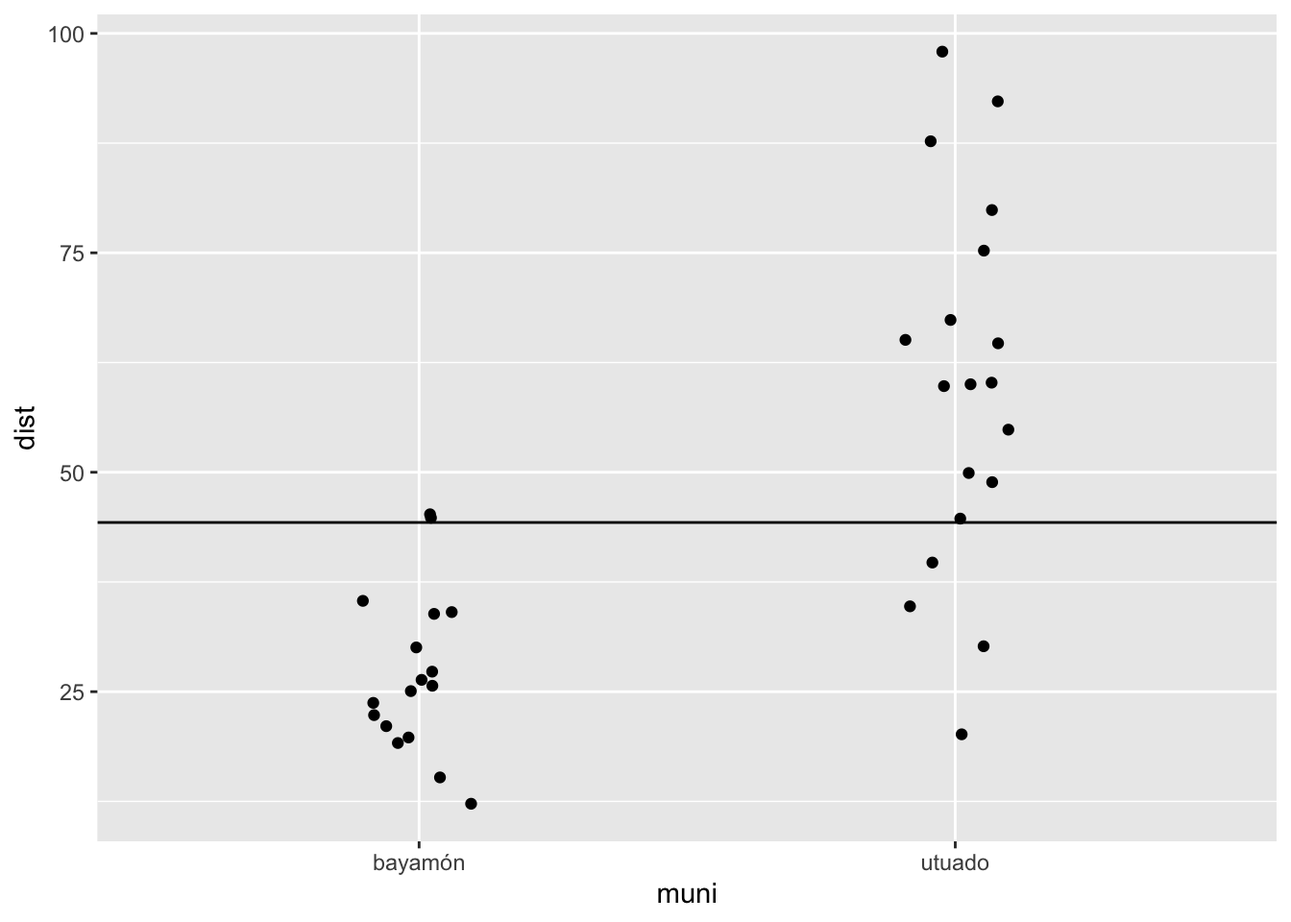
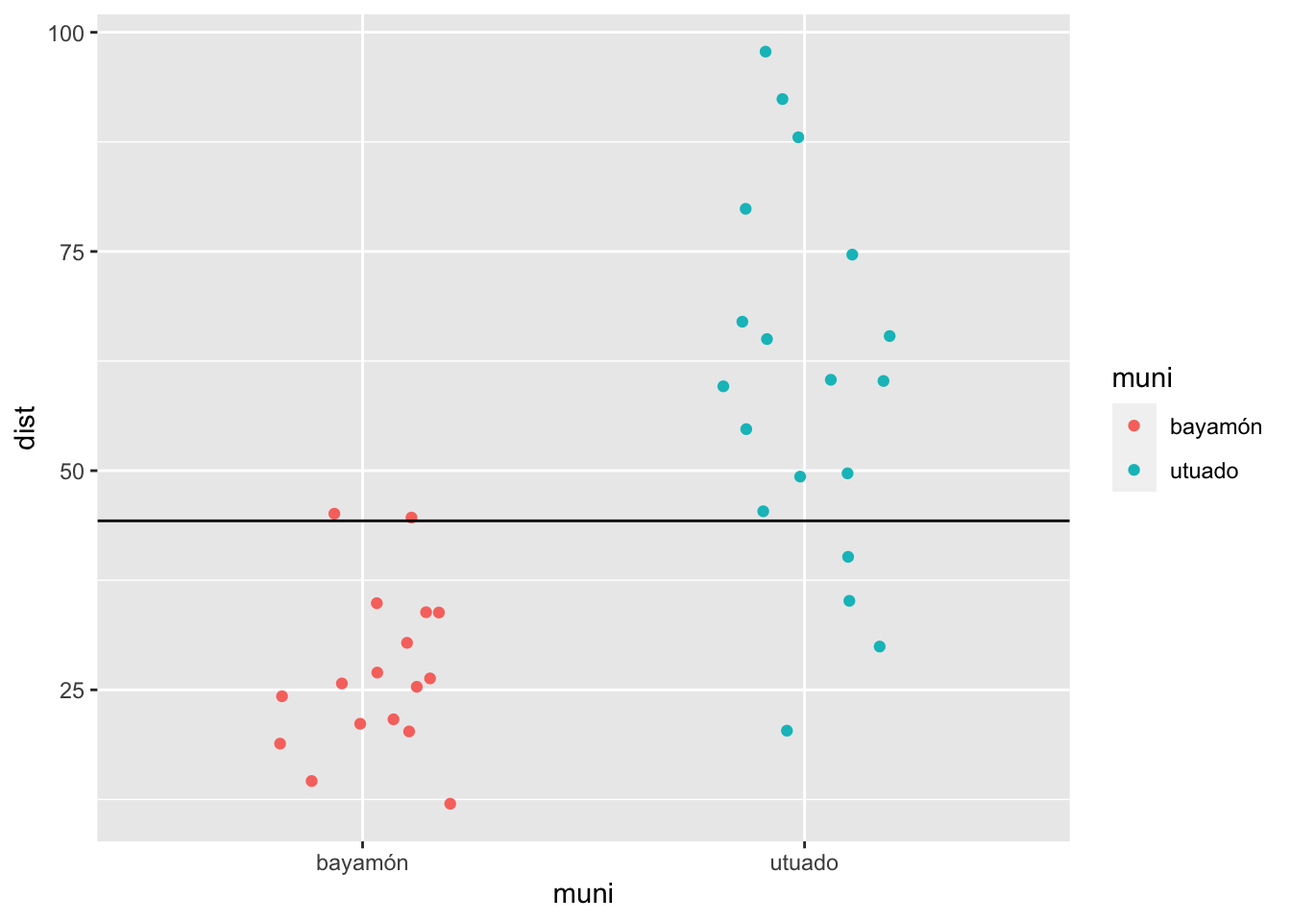
T11

diff --git a/T10_Pruebas_t_Independiente.html b/T10_Pruebas_t_Independiente.html
@@ -658,7 +658,7 @@ div.tocify {
 
 
 <p>Fecha de la ultima revisión</p>
-<pre><code>## [1] &quot;2020-10-13&quot;</code></pre>
+<pre><code>## [1] &quot;2020-10-22&quot;</code></pre>
 <div class="sourceCode" id="cb2"><pre class="sourceCode r"><code class="sourceCode r"><span id="cb2-1"><a href="#cb2-1"></a><span class="kw">library</span>(car)  <span class="co"># para la prueba de leveneTest</span></span>
 <span id="cb2-2"><a href="#cb2-2"></a></span>
 <span id="cb2-3"><a href="#cb2-3"></a><span class="kw">library</span>(RVAideMemoire) <span class="co"># para la prueba de byf.shapiro</span></span></code></pre></div>
@@ -714,8 +714,8 @@ div.tocify {
 <p>Hacer un gráfico de los datos. Si calculamos el promedio de todos los valores de “Y” y lo visualizamos, vemos que muchos de los valores del municipio “bayamón” son muy por debajo los valores de la linea y muchos de los valores del municipio “utuado” son muy por encima.</p>
 <div class="sourceCode" id="cb8"><pre class="sourceCode r"><code class="sourceCode r"><span id="cb8-1"><a href="#cb8-1"></a>mean_dist=<span class="kw">mean</span>(viajes<span class="op">$</span>dist)</span>
 <span id="cb8-2"><a href="#cb8-2"></a></span>
-<span id="cb8-3"><a href="#cb8-3"></a><span class="kw">ggplot</span>(viajes, <span class="kw">aes</span>(muni, dist))<span class="op">+</span></span>
-<span id="cb8-4"><a href="#cb8-4"></a><span class="st">  </span><span class="kw">geom_jitter</span>(<span class="dt">width =</span> <span class="fl">0.11</span>)<span class="op">+</span></span>
+<span id="cb8-3"><a href="#cb8-3"></a><span class="kw">ggplot</span>(viajes, <span class="kw">aes</span>(muni, dist, <span class="dt">colour=</span>muni))<span class="op">+</span></span>
+<span id="cb8-4"><a href="#cb8-4"></a><span class="st">  </span><span class="kw">geom_jitter</span>(<span class="dt">width =</span> <span class="fl">.2</span>)<span class="op">+</span></span>
 <span id="cb8-5"><a href="#cb8-5"></a><span class="st">  </span><span class="kw">geom_hline</span>(<span class="dt">yintercept =</span> mean_dist)</span></code></pre></div>
 <p><img src="T10_Pruebas_t_Independiente_files/figure-html/plot-1.png" width="672" /></p>
 <hr />
@@ -785,13 +785,50 @@ div.tocify {
 ## sample estimates:
 ## mean in group bayamón  mean in group utuado 
 ##              27.05882              59.68421</code></pre>
+<div class="sourceCode" id="cb13"><pre class="sourceCode r"><code class="sourceCode r"><span id="cb13-1"><a href="#cb13-1"></a>gender=<span class="kw">c</span>(<span class="st">&quot;m&quot;</span>, <span class="st">&quot;m&quot;</span>, <span class="st">&quot;f&quot;</span>, <span class="st">&quot;f&quot;</span>, <span class="st">&quot;m&quot;</span>, </span>
+<span id="cb13-2"><a href="#cb13-2"></a>         <span class="st">&quot;f&quot;</span>,<span class="st">&quot;f&quot;</span>,<span class="st">&quot;m&quot;</span>, <span class="st">&quot;f&quot;</span>, <span class="st">&quot;f&quot;</span>, <span class="st">&quot;f&quot;</span>)</span>
+<span id="cb13-3"><a href="#cb13-3"></a></span>
+<span id="cb13-4"><a href="#cb13-4"></a>dist=<span class="kw">c</span>(<span class="dv">10</span>,<span class="dv">20</span>, <span class="dv">11</span>, <span class="dv">40</span>, <span class="dv">19</span>, </span>
+<span id="cb13-5"><a href="#cb13-5"></a>       <span class="fl">8.1</span>, <span class="dv">203</span>, <span class="fl">4.4</span>, <span class="dv">16</span>, <span class="dv">29</span>, <span class="dv">19</span>)</span>
+<span id="cb13-6"><a href="#cb13-6"></a></span>
+<span id="cb13-7"><a href="#cb13-7"></a>df=<span class="kw">data.frame</span>(gender, dist)</span>
+<span id="cb13-8"><a href="#cb13-8"></a><span class="kw">head</span>(df)</span></code></pre></div>
+<pre><code>##   gender dist
+## 1      m 10.0
+## 2      m 20.0
+## 3      f 11.0
+## 4      f 40.0
+## 5      m 19.0
+## 6      f  8.1</code></pre>
+<div class="sourceCode" id="cb15"><pre class="sourceCode r"><code class="sourceCode r"><span id="cb15-1"><a href="#cb15-1"></a>model2=<span class="kw">t.test</span>(dist<span class="op">~</span>gender, <span class="dt">data=</span>df, <span class="dt">paired=</span><span class="ot">FALSE</span>)</span>
+<span id="cb15-2"><a href="#cb15-2"></a>model2</span></code></pre></div>
+<pre><code>## 
+##  Welch Two Sample t-test
+## 
+## data:  dist by gender
+## t = 1.2467, df = 6.2378, p-value = 0.2573
+## alternative hypothesis: true difference in means is not equal to 0
+## 95 percent confidence interval:
+##  -31.39703  97.86846
+## sample estimates:
+## mean in group f mean in group m 
+##        46.58571        13.35000</code></pre>
+<div class="sourceCode" id="cb17"><pre class="sourceCode r"><code class="sourceCode r"><span id="cb17-1"><a href="#cb17-1"></a>padres=<span class="kw">c</span>(<span class="st">&quot;p&quot;</span>, <span class="st">&quot;m&quot;</span> , <span class="st">&quot;p&quot;</span>, <span class="st">&quot;m&quot;</span>, <span class="st">&quot;p&quot;</span>,<span class="st">&quot;m&quot;</span>,</span>
+<span id="cb17-2"><a href="#cb17-2"></a>         <span class="st">&quot;p&quot;</span>,<span class="st">&quot;m&quot;</span>, <span class="st">&quot;p&quot;</span>,<span class="st">&quot;m&quot;</span>, <span class="st">&quot;p&quot;</span>,<span class="st">&quot;m&quot;</span>,</span>
+<span id="cb17-3"><a href="#cb17-3"></a>         <span class="st">&quot;p&quot;</span>,<span class="st">&quot;m&quot;</span>, <span class="st">&quot;p&quot;</span>,<span class="st">&quot;m&quot;</span>, <span class="st">&quot;p&quot;</span>,<span class="st">&quot;m&quot;</span>, </span>
+<span id="cb17-4"><a href="#cb17-4"></a>         <span class="st">&quot;p&quot;</span>, <span class="st">&quot;m&quot;</span>)</span>
+<span id="cb17-5"><a href="#cb17-5"></a></span>
+<span id="cb17-6"><a href="#cb17-6"></a>Hermanos=<span class="st"> </span><span class="kw">c</span>(<span class="dv">2</span>, <span class="dv">1</span>,<span class="dv">2</span>,<span class="dv">2</span>,<span class="dv">2</span>,<span class="dv">3</span>,</span>
+<span id="cb17-7"><a href="#cb17-7"></a>            <span class="dv">3</span>,<span class="dv">2</span>,<span class="dv">4</span>,<span class="dv">1</span>,<span class="dv">2</span>,<span class="dv">1</span>,</span>
+<span id="cb17-8"><a href="#cb17-8"></a>            <span class="dv">2</span>,<span class="dv">1</span>,<span class="dv">5</span>,<span class="dv">2</span>,<span class="dv">5</span>,<span class="dv">3</span>, </span>
+<span id="cb17-9"><a href="#cb17-9"></a>            <span class="dv">12</span>, <span class="dv">2</span>)</span></code></pre></div>
 <hr />
 </div>
 <div id="gráficar-el-promedio-y-el-intervalo-de-confianza" class="section level2">
 <h2>Gráficar el promedio y el intervalo de confianza</h2>
 <p>Graficar los datos con el promedio y el intervalo de confianza da un resumen de la estadística de forma visual, lo que se visualiza es el promedio y el intervalo de 95%. Nota que se usa la función en ggplot2 de <strong>stat_summary(fun.data = mean_cl_normal)</strong>, esto quiere decir que se esta calculando los valores ASUMIENDO una distribución normal de los datos.</p>
-<div class="sourceCode" id="cb13"><pre class="sourceCode r"><code class="sourceCode r"><span id="cb13-1"><a href="#cb13-1"></a><span class="kw">ggplot</span>(viajes, <span class="kw">aes</span>(muni, dist))<span class="op">+</span></span>
-<span id="cb13-2"><a href="#cb13-2"></a><span class="st"> </span><span class="kw">stat_summary</span>(<span class="dt">fun.data =</span> mean_cl_normal, <span class="dt">geom =</span> <span class="st">&quot;pointrange&quot;</span>)</span></code></pre></div>
+<div class="sourceCode" id="cb18"><pre class="sourceCode r"><code class="sourceCode r"><span id="cb18-1"><a href="#cb18-1"></a><span class="kw">ggplot</span>(df, <span class="kw">aes</span>(gender, dist))<span class="op">+</span></span>
+<span id="cb18-2"><a href="#cb18-2"></a><span class="st"> </span><span class="kw">stat_summary</span>(<span class="dt">fun.data =</span> mean_cl_normal, <span class="dt">geom =</span> <span class="st">&quot;pointrange&quot;</span>)</span></code></pre></div>
 <p><img src="T10_Pruebas_t_Independiente_files/figure-html/graph%20summary%20stats-1.png" width="672" /></p>
 <hr />
 </div>
@@ -801,10 +838,10 @@ div.tocify {
 <div id="visualización-de-los-datos" class="section level2">
 <h2>Visualización de los datos</h2>
 <p>Siempre se debería producir un gráfico de los datos para tener una idea de si los datos cumple con los supuestos de las pruebas. Ahora ver las distribución de frecuencia por municipio. Si los datos tuviese una distribución <strong>perfecta</strong> normal, se obtendría una distribición en forma de campana. Primero NO se debería esperar este tipo de distribución cuando tenemos pocos datos.</p>
-<div class="sourceCode" id="cb14"><pre class="sourceCode r"><code class="sourceCode r"><span id="cb14-1"><a href="#cb14-1"></a><span class="kw">ggplot</span>(viajes, <span class="kw">aes</span>(dist, <span class="dt">fill=</span>muni))<span class="op">+</span></span>
-<span id="cb14-2"><a href="#cb14-2"></a><span class="st">  </span><span class="kw">geom_histogram</span>(<span class="dt">colour=</span><span class="st">&quot;white&quot;</span>)<span class="op">+</span></span>
-<span id="cb14-3"><a href="#cb14-3"></a><span class="st">  </span><span class="kw">facet_grid</span>(<span class="op">~</span>muni)</span></code></pre></div>
-<p><img src="T10_Pruebas_t_Independiente_files/figure-html/unnamed-chunk-8-1.png" width="672" /></p>
+<div class="sourceCode" id="cb19"><pre class="sourceCode r"><code class="sourceCode r"><span id="cb19-1"><a href="#cb19-1"></a><span class="kw">ggplot</span>(viajes, <span class="kw">aes</span>(dist, <span class="dt">fill=</span>muni))<span class="op">+</span></span>
+<span id="cb19-2"><a href="#cb19-2"></a><span class="st">  </span><span class="kw">geom_histogram</span>(<span class="dt">colour=</span><span class="st">&quot;white&quot;</span>)<span class="op">+</span></span>
+<span id="cb19-3"><a href="#cb19-3"></a><span class="st">  </span><span class="kw">facet_grid</span>(<span class="op">~</span>muni)</span></code></pre></div>
+<p><img src="T10_Pruebas_t_Independiente_files/figure-html/unnamed-chunk-10-1.png" width="672" /></p>
 <hr />
 </div>
 <div id="shapiro-wilks-prueba-de-normalidad" class="section level2">
@@ -814,7 +851,7 @@ div.tocify {
 <p>Es típico que cuando uno tiene muchos muchos datos uno puede encontrar diferencias significativas entres los grupos, en este caso cuando hay muchos datos la prueba pudiese sugerir que los datos no tienen distribución normal cuando en realidad se esta detectando diferenciales triviales. En la prueba abajo se sugiere de NO utilizarla si tiene mayor de 2000 datos. Al contrario cuando tenga muy pocos datos (n&lt;50) no se debería usar la prueba de Shapiro-Wilks.</p>
 <div id="evaluar-la" class="section level3">
 <h3>Evaluar la</h3>
-<div class="sourceCode" id="cb15"><pre class="sourceCode r"><code class="sourceCode r"><span id="cb15-1"><a href="#cb15-1"></a><span class="kw">shapiro.test</span>(viajes<span class="op">$</span>dist)</span></code></pre></div>
+<div class="sourceCode" id="cb20"><pre class="sourceCode r"><code class="sourceCode r"><span id="cb20-1"><a href="#cb20-1"></a><span class="kw">shapiro.test</span>(viajes<span class="op">$</span>dist)</span></code></pre></div>
 <pre><code>## 
 ##  Shapiro-Wilk normality test
 ## 
@@ -823,21 +860,21 @@ div.tocify {
 </div>
 <div id="metodo-1-shapiro.test" class="section level3">
 <h3>Metodo #1: shapiro.test()</h3>
-<div class="sourceCode" id="cb17"><pre class="sourceCode r"><code class="sourceCode r"><span id="cb17-1"><a href="#cb17-1"></a><span class="co"># Normality test by group</span></span>
-<span id="cb17-2"><a href="#cb17-2"></a><span class="co"># Method 1 </span></span>
-<span id="cb17-3"><a href="#cb17-3"></a><span class="kw">shapiro.test</span>(viajes<span class="op">$</span>dist)</span></code></pre></div>
+<div class="sourceCode" id="cb22"><pre class="sourceCode r"><code class="sourceCode r"><span id="cb22-1"><a href="#cb22-1"></a><span class="co"># Normality test by group</span></span>
+<span id="cb22-2"><a href="#cb22-2"></a><span class="co"># Method 1 </span></span>
+<span id="cb22-3"><a href="#cb22-3"></a><span class="kw">shapiro.test</span>(viajes<span class="op">$</span>dist)</span></code></pre></div>
 <pre><code>## 
 ##  Shapiro-Wilk normality test
 ## 
 ## data:  viajes$dist
 ## W = 0.92929, p-value = 0.02381</code></pre>
-<div class="sourceCode" id="cb19"><pre class="sourceCode r"><code class="sourceCode r"><span id="cb19-1"><a href="#cb19-1"></a><span class="kw">shapiro.test</span>(viajes<span class="op">$</span>dist[viajes<span class="op">$</span>muni<span class="op">==</span><span class="st">&quot;utuado&quot;</span>])</span></code></pre></div>
+<div class="sourceCode" id="cb24"><pre class="sourceCode r"><code class="sourceCode r"><span id="cb24-1"><a href="#cb24-1"></a><span class="kw">shapiro.test</span>(viajes<span class="op">$</span>dist[viajes<span class="op">$</span>muni<span class="op">==</span><span class="st">&quot;utuado&quot;</span>])</span></code></pre></div>
 <pre><code>## 
 ##  Shapiro-Wilk normality test
 ## 
 ## data:  viajes$dist[viajes$muni == &quot;utuado&quot;]
 ## W = 0.98408, p-value = 0.979</code></pre>
-<div class="sourceCode" id="cb21"><pre class="sourceCode r"><code class="sourceCode r"><span id="cb21-1"><a href="#cb21-1"></a><span class="kw">shapiro.test</span>(viajes<span class="op">$</span>dist[viajes<span class="op">$</span>muni<span class="op">==</span><span class="st">&quot;bayamón&quot;</span>])</span></code></pre></div>
+<div class="sourceCode" id="cb26"><pre class="sourceCode r"><code class="sourceCode r"><span id="cb26-1"><a href="#cb26-1"></a><span class="kw">shapiro.test</span>(viajes<span class="op">$</span>dist[viajes<span class="op">$</span>muni<span class="op">==</span><span class="st">&quot;bayamón&quot;</span>])</span></code></pre></div>
 <pre><code>## 
 ##  Shapiro-Wilk normality test
 ## 
@@ -850,9 +887,9 @@ div.tocify {
 <p>Recuerda, que si el valor de p es mayor de 0.05, se asume que los datos tienen una distribución normal, si es menor de 0.05 se asume que no es normal.</p>
 <p>Nota la oragnización de la prueba, es como la de la t.test( )</p>
 <p>byf.shapiro(variable_de_respuesta ~ variable_de_grupo, dataframe)</p>
-<div class="sourceCode" id="cb23"><pre class="sourceCode r"><code class="sourceCode r"><span id="cb23-1"><a href="#cb23-1"></a><span class="co"># de la libreria de (RVAideMemoire)</span></span>
-<span id="cb23-2"><a href="#cb23-2"></a></span>
-<span id="cb23-3"><a href="#cb23-3"></a><span class="kw">byf.shapiro</span>(dist<span class="op">~</span>muni, viajes)</span></code></pre></div>
+<div class="sourceCode" id="cb28"><pre class="sourceCode r"><code class="sourceCode r"><span id="cb28-1"><a href="#cb28-1"></a><span class="co"># de la libreria de (RVAideMemoire)</span></span>
+<span id="cb28-2"><a href="#cb28-2"></a></span>
+<span id="cb28-3"><a href="#cb28-3"></a><span class="kw">byf.shapiro</span>(dist<span class="op">~</span>muni, viajes)</span></code></pre></div>
 <pre><code>## 
 ##  Shapiro-Wilk normality tests
 ## 
@@ -881,7 +918,7 @@ div.tocify {
 </ol>
 <div id="la-prueba-de-bartlett" class="section level2">
 <h2>La prueba de Bartlett</h2>
-<div class="sourceCode" id="cb25"><pre class="sourceCode r"><code class="sourceCode r"><span id="cb25-1"><a href="#cb25-1"></a><span class="kw">bartlett.test</span>(dist<span class="op">~</span>muni, <span class="dt">data=</span>viajes)</span></code></pre></div>
+<div class="sourceCode" id="cb30"><pre class="sourceCode r"><code class="sourceCode r"><span id="cb30-1"><a href="#cb30-1"></a><span class="kw">bartlett.test</span>(dist<span class="op">~</span>muni, <span class="dt">data=</span>viajes)</span></code></pre></div>
 <pre><code>## 
 ##  Bartlett test of homogeneity of variances
 ## 
@@ -893,7 +930,7 @@ div.tocify {
 <ul>
 <li>similar to Bartlett’s test</li>
 </ul>
-<div class="sourceCode" id="cb27"><pre class="sourceCode r"><code class="sourceCode r"><span id="cb27-1"><a href="#cb27-1"></a><span class="kw">leveneTest</span>(dist<span class="op">~</span>muni, <span class="dt">data=</span>viajes)</span></code></pre></div>
+<div class="sourceCode" id="cb32"><pre class="sourceCode r"><code class="sourceCode r"><span id="cb32-1"><a href="#cb32-1"></a><span class="kw">leveneTest</span>(dist<span class="op">~</span>muni, <span class="dt">data=</span>viajes)</span></code></pre></div>
 <pre><code>## Levene&#39;s Test for Homogeneity of Variance (center = median)
 ##       Df F value  Pr(&gt;F)  
 ## group  1  7.0756 0.01183 *
@@ -906,7 +943,7 @@ div.tocify {
 <ul>
 <li>good when the distribution are not normal</li>
 </ul>
-<div class="sourceCode" id="cb29"><pre class="sourceCode r"><code class="sourceCode r"><span id="cb29-1"><a href="#cb29-1"></a><span class="kw">fligner.test</span>(dist<span class="op">~</span>muni, <span class="dt">data=</span>viajes)</span></code></pre></div>
+<div class="sourceCode" id="cb34"><pre class="sourceCode r"><code class="sourceCode r"><span id="cb34-1"><a href="#cb34-1"></a><span class="kw">fligner.test</span>(dist<span class="op">~</span>muni, <span class="dt">data=</span>viajes)</span></code></pre></div>
 <pre><code>## 
 ##  Fligner-Killeen test of homogeneity of variances
 ## 
@@ -915,20 +952,20 @@ div.tocify {
 <ol style="list-style-type: decimal">
 <li>Ejercicio</li>
 </ol>
-<div class="sourceCode" id="cb31"><pre class="sourceCode r"><code class="sourceCode r"><span id="cb31-1"><a href="#cb31-1"></a>sex=<span class="kw">c</span>(<span class="st">&quot;f&quot;</span>,<span class="st">&quot;f&quot;</span>,<span class="st">&quot;f&quot;</span>,<span class="st">&quot;f&quot;</span>,<span class="st">&quot;f&quot;</span>,</span>
-<span id="cb31-2"><a href="#cb31-2"></a>      <span class="st">&quot;f&quot;</span>,<span class="st">&quot;f&quot;</span>,<span class="st">&quot;f&quot;</span>,<span class="st">&quot;f&quot;</span>,<span class="st">&quot;f&quot;</span>,</span>
-<span id="cb31-3"><a href="#cb31-3"></a>      <span class="st">&quot;f&quot;</span>,</span>
-<span id="cb31-4"><a href="#cb31-4"></a>      <span class="st">&quot;m&quot;</span>,<span class="st">&quot;m&quot;</span>,<span class="st">&quot;m&quot;</span>,</span>
-<span id="cb31-5"><a href="#cb31-5"></a>      <span class="st">&quot;m&quot;</span>,<span class="st">&quot;m&quot;</span>,<span class="st">&quot;m&quot;</span>)</span>
-<span id="cb31-6"><a href="#cb31-6"></a>kids=<span class="kw">c</span>(<span class="dv">0</span>, <span class="dv">1</span>, <span class="dv">2</span>, <span class="dv">1</span>, <span class="dv">1</span>,</span>
-<span id="cb31-7"><a href="#cb31-7"></a>       <span class="dv">4</span>, <span class="dv">4</span>, <span class="dv">2</span>, <span class="dv">0</span>, <span class="dv">10</span>,</span>
-<span id="cb31-8"><a href="#cb31-8"></a>       <span class="dv">2</span>,</span>
-<span id="cb31-9"><a href="#cb31-9"></a>       <span class="dv">80</span>, <span class="dv">24</span>,</span>
-<span id="cb31-10"><a href="#cb31-10"></a>       <span class="dv">32</span>, <span class="dv">22</span>, <span class="dv">22</span>,<span class="dv">15</span>)</span>
-<span id="cb31-11"><a href="#cb31-11"></a></span>
-<span id="cb31-12"><a href="#cb31-12"></a>futurePR=<span class="kw">data.frame</span>(sex,kids)</span>
-<span id="cb31-13"><a href="#cb31-13"></a></span>
-<span id="cb31-14"><a href="#cb31-14"></a><span class="kw">head</span>(futurePR)</span></code></pre></div>
+<div class="sourceCode" id="cb36"><pre class="sourceCode r"><code class="sourceCode r"><span id="cb36-1"><a href="#cb36-1"></a>sex=<span class="kw">c</span>(<span class="st">&quot;f&quot;</span>,<span class="st">&quot;f&quot;</span>,<span class="st">&quot;f&quot;</span>,<span class="st">&quot;f&quot;</span>,<span class="st">&quot;f&quot;</span>,</span>
+<span id="cb36-2"><a href="#cb36-2"></a>      <span class="st">&quot;f&quot;</span>,<span class="st">&quot;f&quot;</span>,<span class="st">&quot;f&quot;</span>,<span class="st">&quot;f&quot;</span>,<span class="st">&quot;f&quot;</span>,</span>
+<span id="cb36-3"><a href="#cb36-3"></a>      <span class="st">&quot;f&quot;</span>,</span>
+<span id="cb36-4"><a href="#cb36-4"></a>      <span class="st">&quot;m&quot;</span>,<span class="st">&quot;m&quot;</span>,<span class="st">&quot;m&quot;</span>,</span>
+<span id="cb36-5"><a href="#cb36-5"></a>      <span class="st">&quot;m&quot;</span>,<span class="st">&quot;m&quot;</span>,<span class="st">&quot;m&quot;</span>)</span>
+<span id="cb36-6"><a href="#cb36-6"></a>kids=<span class="kw">c</span>(<span class="dv">0</span>, <span class="dv">1</span>, <span class="dv">2</span>, <span class="dv">1</span>, <span class="dv">1</span>,</span>
+<span id="cb36-7"><a href="#cb36-7"></a>       <span class="dv">4</span>, <span class="dv">4</span>, <span class="dv">2</span>, <span class="dv">0</span>, <span class="dv">10</span>,</span>
+<span id="cb36-8"><a href="#cb36-8"></a>       <span class="dv">2</span>,</span>
+<span id="cb36-9"><a href="#cb36-9"></a>       <span class="dv">80</span>, <span class="dv">24</span>,</span>
+<span id="cb36-10"><a href="#cb36-10"></a>       <span class="dv">32</span>, <span class="dv">22</span>, <span class="dv">22</span>,<span class="dv">15</span>)</span>
+<span id="cb36-11"><a href="#cb36-11"></a></span>
+<span id="cb36-12"><a href="#cb36-12"></a>futurePR=<span class="kw">data.frame</span>(sex,kids)</span>
+<span id="cb36-13"><a href="#cb36-13"></a></span>
+<span id="cb36-14"><a href="#cb36-14"></a><span class="kw">head</span>(futurePR)</span></code></pre></div>
 <pre><code>##   sex kids
 ## 1   f    0
 ## 2   f    1
@@ -936,8 +973,8 @@ div.tocify {
 ## 4   f    1
 ## 5   f    1
 ## 6   f    4</code></pre>
-<div class="sourceCode" id="cb33"><pre class="sourceCode r"><code class="sourceCode r"><span id="cb33-1"><a href="#cb33-1"></a>model2=<span class="kw">t.test</span>(kids<span class="op">~</span>sex, <span class="dt">data=</span>futurePR)</span>
-<span id="cb33-2"><a href="#cb33-2"></a>model2</span></code></pre></div>
+<div class="sourceCode" id="cb38"><pre class="sourceCode r"><code class="sourceCode r"><span id="cb38-1"><a href="#cb38-1"></a>model2=<span class="kw">t.test</span>(kids<span class="op">~</span>sex, <span class="dt">data=</span>futurePR)</span>
+<span id="cb38-2"><a href="#cb38-2"></a>model2</span></code></pre></div>
 <pre><code>## 
 ##  Welch Two Sample t-test
 ## 
@@ -949,7 +986,7 @@ div.tocify {
 ## sample estimates:
 ## mean in group f mean in group m 
 ##        2.454545       32.500000</code></pre>
-<div class="sourceCode" id="cb35"><pre class="sourceCode r"><code class="sourceCode r"><span id="cb35-1"><a href="#cb35-1"></a><span class="kw">byf.shapiro</span>(kids<span class="op">~</span>sex, futurePR)</span></code></pre></div>
+<div class="sourceCode" id="cb40"><pre class="sourceCode r"><code class="sourceCode r"><span id="cb40-1"><a href="#cb40-1"></a><span class="kw">byf.shapiro</span>(kids<span class="op">~</span>sex, futurePR)</span></code></pre></div>
 <pre><code>## 
 ##  Shapiro-Wilk normality tests
 ## 
@@ -961,37 +998,6 @@ div.tocify {
 ## ---
 ## Signif. codes:  0 &#39;***&#39; 0.001 &#39;**&#39; 0.01 &#39;*&#39; 0.05 &#39;.&#39; 0.1 &#39; &#39; 1</code></pre>
 </div>
-</div>
-<div id="anxiedad-y-alacranes" class="section level1">
-<h1>Anxiedad y Alacranes</h1>
-<p>Anxiety</p>
-<div class="sourceCode" id="cb37"><pre class="sourceCode r"><code class="sourceCode r"><span id="cb37-1"><a href="#cb37-1"></a>picture=<span class="kw">c</span>(<span class="dv">1</span>,<span class="dv">2</span>,<span class="dv">5</span>,<span class="dv">2</span>,<span class="dv">8</span>,<span class="dv">4</span>,<span class="dv">5</span>,<span class="dv">0</span>,<span class="dv">7</span>)</span>
-<span id="cb37-2"><a href="#cb37-2"></a>dead=<span class="kw">c</span>(<span class="dv">15</span>,<span class="dv">15</span>,<span class="dv">17</span>,<span class="dv">10</span>,<span class="dv">10</span>,<span class="dv">10</span>,<span class="dv">18</span>,<span class="dv">16</span>,<span class="dv">11</span>)</span>
-<span id="cb37-3"><a href="#cb37-3"></a><span class="kw">mean</span>(picture)</span></code></pre></div>
-<pre><code>## [1] 3.777778</code></pre>
-<div class="sourceCode" id="cb39"><pre class="sourceCode r"><code class="sourceCode r"><span id="cb39-1"><a href="#cb39-1"></a><span class="kw">mean</span>(dead)</span></code></pre></div>
-<pre><code>## [1] 13.55556</code></pre>
-<div class="sourceCode" id="cb41"><pre class="sourceCode r"><code class="sourceCode r"><span id="cb41-1"><a href="#cb41-1"></a>alacran=<span class="kw">data.frame</span>(picture,dead)</span>
-<span id="cb41-2"><a href="#cb41-2"></a><span class="kw">head</span>(alacran)</span></code></pre></div>
-<pre><code>##   picture dead
-## 1       1   15
-## 2       2   15
-## 3       5   17
-## 4       2   10
-## 5       8   10
-## 6       4   10</code></pre>
-<div class="sourceCode" id="cb43"><pre class="sourceCode r"><code class="sourceCode r"><span id="cb43-1"><a href="#cb43-1"></a><span class="kw">t.test</span>(alacran<span class="op">$</span>dead, alacran<span class="op">$</span>picture,<span class="dt">paired=</span><span class="ot">FALSE</span>)</span></code></pre></div>
-<pre><code>## 
-##  Welch Two Sample t-test
-## 
-## data:  alacran$dead and alacran$picture
-## t = 6.8716, df = 15.482, p-value = 4.482e-06
-## alternative hypothesis: true difference in means is not equal to 0
-## 95 percent confidence interval:
-##   6.753105 12.802450
-## sample estimates:
-## mean of x mean of y 
-## 13.555556  3.777778</code></pre>
 </div>
 
 

diff --git a/T9a_Pruebas_t-Pareados.html b/T9a_Pruebas_t-Pareados.html
@@ -658,7 +658,7 @@ div.tocify {
 
 
 <p>Fecha de la ultima revisión</p>
-<pre><code>## [1] &quot;2020-10-15&quot;</code></pre>
+<pre><code>## [1] &quot;2020-10-22&quot;</code></pre>
 <div id="datos-dependientes" class="section level1">
 <h1>Datos dependientes</h1>
 <p>Si tienes datos que no son independiente, es necesario usar la prueba con datos pareados (paired t-test). Cuando se refiere a datos no independiente es que hay evidencia que los datos pueden estar relacionado de una forma. En el siguiente ejemplo tenemos la altura de los padres y el altura de el hijo. Hay evidencia que la genética influencia la altura de los humanos, también hay el ambiente. Si el ambiente (nutrición, etc) es la única variable que tiene influencia sobre la altura pudiese que no se debería encontrar una relación entre la altura del padre y el hijo. Si la genética es la única variable que impacta la altura de los humanos, en este caso deberíamos encontrar una muy fuerte correlación entre la alturas de los padres y los hijos.</p>
@@ -938,6 +938,47 @@ div.tocify {
 </ul></li>
 </ul>
 </blockquote>
+</div>
+<div id="anxiedad-y-alacranes" class="section level2">
+<h2>Anxiedad y Alacranes</h2>
+<p>Con un indice de Ansiedad. Más alto el número más ansieso.</p>
+<div class="sourceCode" id="cb24"><pre class="sourceCode r"><code class="sourceCode r"><span id="cb24-1"><a href="#cb24-1"></a>picture=<span class="kw">c</span>(<span class="dv">1</span>,<span class="dv">2</span>,<span class="dv">5</span>,<span class="dv">2</span>,<span class="dv">8</span>,<span class="dv">4</span>,<span class="dv">5</span>,<span class="dv">0</span>,<span class="dv">7</span>)</span>
+<span id="cb24-2"><a href="#cb24-2"></a>dead=<span class="kw">c</span>(<span class="dv">15</span>,<span class="dv">15</span>,<span class="dv">17</span>,<span class="dv">10</span>,<span class="dv">10</span>,<span class="dv">10</span>,<span class="dv">18</span>,<span class="dv">16</span>,<span class="dv">11</span>)</span>
+<span id="cb24-3"><a href="#cb24-3"></a><span class="kw">mean</span>(picture)</span></code></pre></div>
+<pre><code>## [1] 3.777778</code></pre>
+<div class="sourceCode" id="cb26"><pre class="sourceCode r"><code class="sourceCode r"><span id="cb26-1"><a href="#cb26-1"></a><span class="kw">mean</span>(dead)</span></code></pre></div>
+<pre><code>## [1] 13.55556</code></pre>
+<div class="sourceCode" id="cb28"><pre class="sourceCode r"><code class="sourceCode r"><span id="cb28-1"><a href="#cb28-1"></a>alacran=<span class="kw">data.frame</span>(picture,dead)</span>
+<span id="cb28-2"><a href="#cb28-2"></a><span class="kw">head</span>(alacran)</span></code></pre></div>
+<table class="huxtable" style="border-collapse: collapse; border: 0px; margin-bottom: 2em; margin-top: 2em; ; margin-left: auto; margin-right: auto;  " id="tab:anxiety">
+<col><col><tr>
+<th style="vertical-align: top; text-align: right; white-space: normal; border-style: solid solid solid solid; border-width: 0.4pt 0pt 0.4pt 0.4pt;    padding: 6pt 6pt 6pt 6pt; font-weight: bold;">picture</th><th style="vertical-align: top; text-align: right; white-space: normal; border-style: solid solid solid solid; border-width: 0.4pt 0.4pt 0.4pt 0pt;    padding: 6pt 6pt 6pt 6pt; font-weight: bold;">dead</th></tr>
+<tr>
+<td style="vertical-align: top; text-align: right; white-space: normal; border-style: solid solid solid solid; border-width: 0.4pt 0pt 0pt 0.4pt;    padding: 6pt 6pt 6pt 6pt; background-color: rgb(242, 242, 242); font-weight: normal;">1</td><td style="vertical-align: top; text-align: right; white-space: normal; border-style: solid solid solid solid; border-width: 0.4pt 0.4pt 0pt 0pt;    padding: 6pt 6pt 6pt 6pt; background-color: rgb(242, 242, 242); font-weight: normal;">15</td></tr>
+<tr>
+<td style="vertical-align: top; text-align: right; white-space: normal; border-style: solid solid solid solid; border-width: 0pt 0pt 0pt 0.4pt;    padding: 6pt 6pt 6pt 6pt; font-weight: normal;">2</td><td style="vertical-align: top; text-align: right; white-space: normal; border-style: solid solid solid solid; border-width: 0pt 0.4pt 0pt 0pt;    padding: 6pt 6pt 6pt 6pt; font-weight: normal;">15</td></tr>
+<tr>
+<td style="vertical-align: top; text-align: right; white-space: normal; border-style: solid solid solid solid; border-width: 0pt 0pt 0pt 0.4pt;    padding: 6pt 6pt 6pt 6pt; background-color: rgb(242, 242, 242); font-weight: normal;">5</td><td style="vertical-align: top; text-align: right; white-space: normal; border-style: solid solid solid solid; border-width: 0pt 0.4pt 0pt 0pt;    padding: 6pt 6pt 6pt 6pt; background-color: rgb(242, 242, 242); font-weight: normal;">17</td></tr>
+<tr>
+<td style="vertical-align: top; text-align: right; white-space: normal; border-style: solid solid solid solid; border-width: 0pt 0pt 0pt 0.4pt;    padding: 6pt 6pt 6pt 6pt; font-weight: normal;">2</td><td style="vertical-align: top; text-align: right; white-space: normal; border-style: solid solid solid solid; border-width: 0pt 0.4pt 0pt 0pt;    padding: 6pt 6pt 6pt 6pt; font-weight: normal;">10</td></tr>
+<tr>
+<td style="vertical-align: top; text-align: right; white-space: normal; border-style: solid solid solid solid; border-width: 0pt 0pt 0pt 0.4pt;    padding: 6pt 6pt 6pt 6pt; background-color: rgb(242, 242, 242); font-weight: normal;">8</td><td style="vertical-align: top; text-align: right; white-space: normal; border-style: solid solid solid solid; border-width: 0pt 0.4pt 0pt 0pt;    padding: 6pt 6pt 6pt 6pt; background-color: rgb(242, 242, 242); font-weight: normal;">10</td></tr>
+<tr>
+<td style="vertical-align: top; text-align: right; white-space: normal; border-style: solid solid solid solid; border-width: 0pt 0pt 0.4pt 0.4pt;    padding: 6pt 6pt 6pt 6pt; font-weight: normal;">4</td><td style="vertical-align: top; text-align: right; white-space: normal; border-style: solid solid solid solid; border-width: 0pt 0.4pt 0.4pt 0pt;    padding: 6pt 6pt 6pt 6pt; font-weight: normal;">10</td></tr>
+</table>
+
+<div class="sourceCode" id="cb29"><pre class="sourceCode r"><code class="sourceCode r"><span id="cb29-1"><a href="#cb29-1"></a><span class="kw">t.test</span>(alacran<span class="op">$</span>dead, alacran<span class="op">$</span>picture,<span class="dt">paired=</span><span class="ot">FALSE</span>)</span></code></pre></div>
+<pre><code>## 
+##  Welch Two Sample t-test
+## 
+## data:  alacran$dead and alacran$picture
+## t = 6.8716, df = 15.482, p-value = 4.482e-06
+## alternative hypothesis: true difference in means is not equal to 0
+## 95 percent confidence interval:
+##   6.753105 12.802450
+## sample estimates:
+## mean of x mean of y 
+## 13.555556  3.777778</code></pre>
 <hr />
 </div>
 <div id="supuestos-de-la-prueba-de-t-con-datos-pareados." class="section level2">

diff --git a/T11_ANOVA.html b/T11_ANOVA.html
@@ -658,7 +658,7 @@ div.tocify {
 
 
 <p>Fecha de la ultima revisión</p>
-<div class="sourceCode" id="cb1"><pre class="sourceCode numberSource numberLines lineAnchors chunkout"><code class="sourceCode"><span id="cb1-1"><a href="#cb1-1"></a>## [1] &quot;2020-10-07&quot;</span></code></pre></div>
+<div class="sourceCode" id="cb1"><pre class="sourceCode numberSource numberLines lineAnchors chunkout"><code class="sourceCode"><span id="cb1-1"><a href="#cb1-1"></a>## [1] &quot;2020-10-22&quot;</span></code></pre></div>
 <style type="text/css">
 div.sourceCode pre.chunkout {
   background: white;
@@ -703,7 +703,7 @@ div.sourceCode pre.chunkout {
 <span id="cb4-11"><a href="#cb4-11"></a><span class="st">    </span><span class="kw">theme_article</span>(<span class="dt">header_col =</span> <span class="ot">FALSE</span>)<span class="op">%&gt;%</span></span>
 <span id="cb4-12"><a href="#cb4-12"></a><span class="st">  </span><span class="kw">set_bottom_border</span>(<span class="dt">row =</span> <span class="dv">1</span>, <span class="dt">col =</span> everywhere, <span class="dt">value =</span> <span class="dv">1</span>) <span class="op">%&gt;%</span><span class="st"> </span></span>
 <span id="cb4-13"><a href="#cb4-13"></a><span class="st">  </span><span class="kw">set_caption</span>(<span class="st">&quot;La probabilidad de cometer un error tipo I usando la prueba de t para cada pares de prueba (C)&quot;</span>)<span class="op">%&gt;%</span></span>
-<span id="cb4-14"><a href="#cb4-14"></a><span class="st">  </span><span class="kw">add_footnote</span>(<span class="st">&quot;* C=(k-1)/2, que es la cantidad de comparación&quot;</span>)</span></code></pre></div>
+<span id="cb4-14"><a href="#cb4-14"></a><span class="st">  </span><span class="kw">add_footnote</span>(<span class="st">&quot;* C=k(k-1)/2, que es la cantidad de comparación&quot;</span>)</span></code></pre></div>
 <table class="huxtable" style="border-collapse: collapse; border: 0px; margin-bottom: 2em; margin-top: 2em; ; margin-left: auto; margin-right: auto;  " id="tab:unnamed-chunk-5">
 <caption style="caption-side: top; text-align: center;">La probabilidad de cometer un error tipo I usando la prueba de t para cada pares de prueba (C)</caption><col><col><col><col><tr>
 <th style="vertical-align: top; text-align: left; white-space: normal; border-style: solid solid solid solid; border-width: 0.4pt 0pt 1pt 0pt;    padding: 6pt 6pt 6pt 0pt; font-weight: bold;">Cantidad_Grupo_k</th><th style="vertical-align: top; text-align: left; white-space: normal; border-style: solid solid solid solid; border-width: 0.4pt 0pt 1pt 0pt;    padding: 6pt 6pt 6pt 6pt; font-weight: bold;">C</th><th style="vertical-align: top; text-align: left; white-space: normal; border-style: solid solid solid solid; border-width: 0.4pt 0pt 1pt 0pt;    padding: 6pt 6pt 6pt 6pt; font-weight: bold;">0.05</th><th style="vertical-align: top; text-align: left; white-space: normal; border-style: solid solid solid solid; border-width: 0.4pt 0pt 1pt 0pt;    padding: 6pt 0pt 6pt 6pt; font-weight: bold;">0.01</th></tr>
@@ -718,7 +718,7 @@ div.sourceCode pre.chunkout {
 <tr>
 <td style="vertical-align: top; text-align: left; white-space: normal; border-style: solid solid solid solid; border-width: 0pt 0pt 0.8pt 0pt;    padding: 6pt 6pt 6pt 0pt; font-weight: normal;">6</td><td style="vertical-align: top; text-align: left; white-space: normal; border-style: solid solid solid solid; border-width: 0pt 0pt 0.8pt 0pt;    padding: 6pt 6pt 6pt 6pt; font-weight: normal;">15</td><td style="vertical-align: top; text-align: left; white-space: normal; border-style: solid solid solid solid; border-width: 0pt 0pt 0.8pt 0pt;    padding: 6pt 6pt 6pt 6pt; font-weight: normal;">0.54</td><td style="vertical-align: top; text-align: left; white-space: normal; border-style: solid solid solid solid; border-width: 0pt 0pt 0.8pt 0pt;    padding: 6pt 0pt 6pt 6pt; font-weight: normal;">0.14</td></tr>
 <tr>
-<td colspan="4" style="vertical-align: top; text-align: left; white-space: normal; border-style: solid solid solid solid; border-width: 0.8pt 0pt 0pt 0pt;    padding: 6pt 6pt 6pt 6pt; font-weight: normal;">* C=(k-1)/2, que es la cantidad de comparación</td></tr>
+<td colspan="4" style="vertical-align: top; text-align: left; white-space: normal; border-style: solid solid solid solid; border-width: 0.8pt 0pt 0pt 0pt;    padding: 6pt 6pt 6pt 6pt; font-weight: normal;">* C=k(k-1)/2, que es la cantidad de comparación</td></tr>
 </table>
 
 <p>Nota que si tienes 4 grupos tendrá que hacer 6 pruebas de t, y eso eleva la probabilidad de cometer un tipo de error I a 26%, mucho más alto que el 5% que uno quisiera. Cuando uno hace la prueba de ANOVA y selecciona el nivel de error de 5%, es que el conjunto de todas las pruebas tiene ese nivel error posible.</p>
@@ -1032,7 +1032,7 @@ div.sourceCode pre.chunkout {
 <span id="cb26-8"><a href="#cb26-8"></a>## </span>
 <span id="cb26-9"><a href="#cb26-9"></a>## Linear Hypotheses:</span>
 <span id="cb26-10"><a href="#cb26-10"></a>##                         Estimate Std. Error t value Pr(&gt;|t|)    </span>
-<span id="cb26-11"><a href="#cb26-11"></a>## DosBocas - Caraizo == 0  -15.800      3.999  -3.951  0.00463 ** </span>
+<span id="cb26-11"><a href="#cb26-11"></a>## DosBocas - Caraizo == 0  -15.800      3.999  -3.951  0.00441 ** </span>
 <span id="cb26-12"><a href="#cb26-12"></a>## Guineo - Caraizo == 0    -37.633      3.828  -9.830  &lt; 0.001 ***</span>
 <span id="cb26-13"><a href="#cb26-13"></a>## Guineo - DosBocas == 0   -21.833      3.828  -5.703  &lt; 0.001 ***</span>
 <span id="cb26-14"><a href="#cb26-14"></a>## ---</span>
